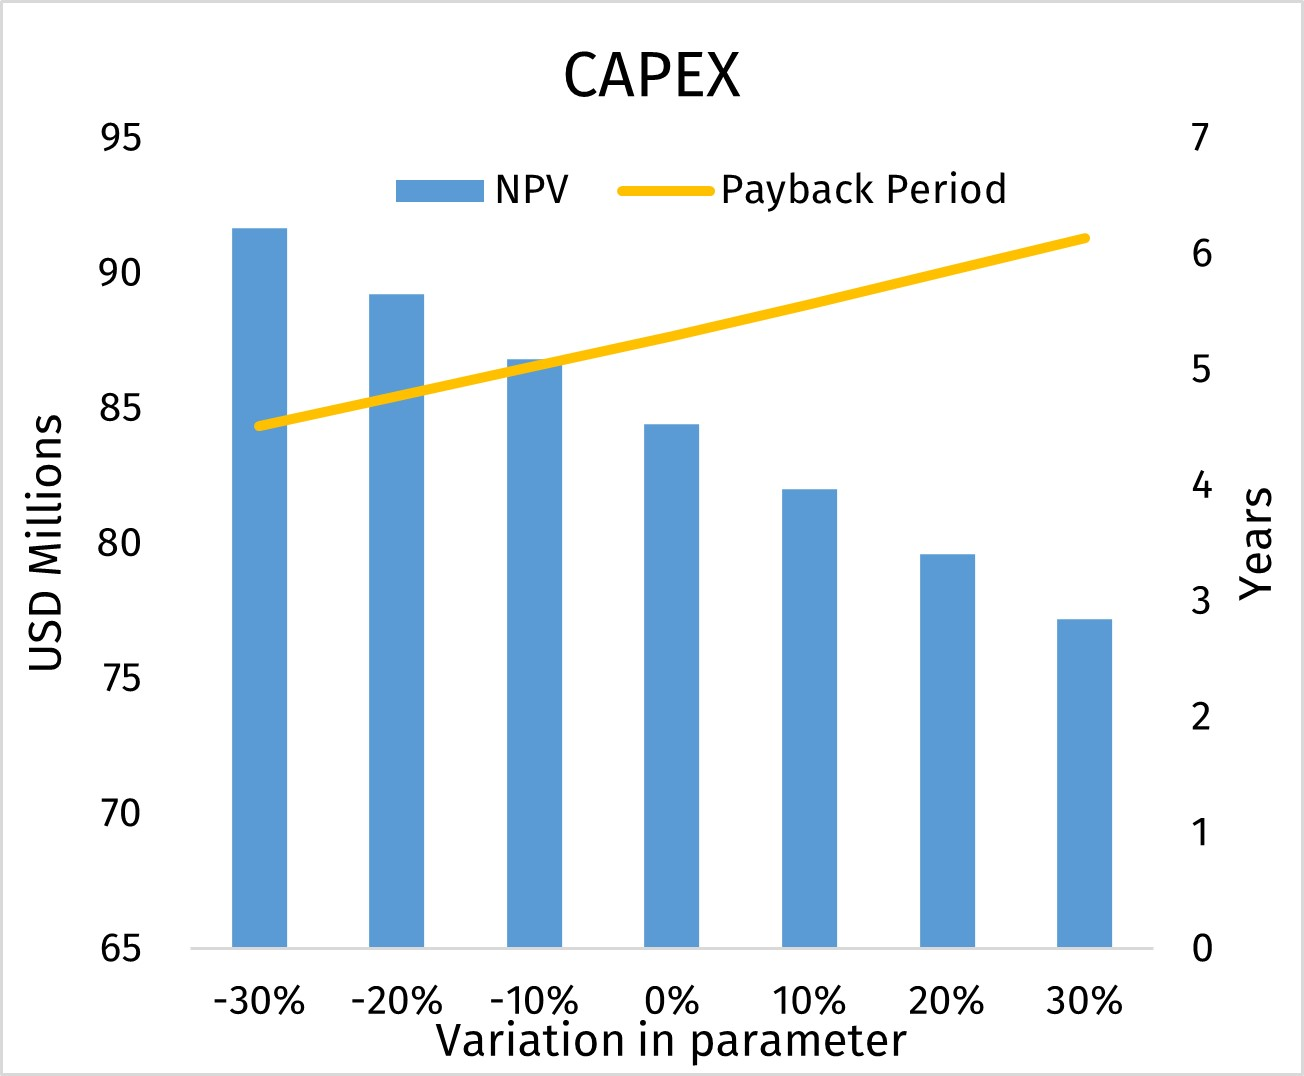
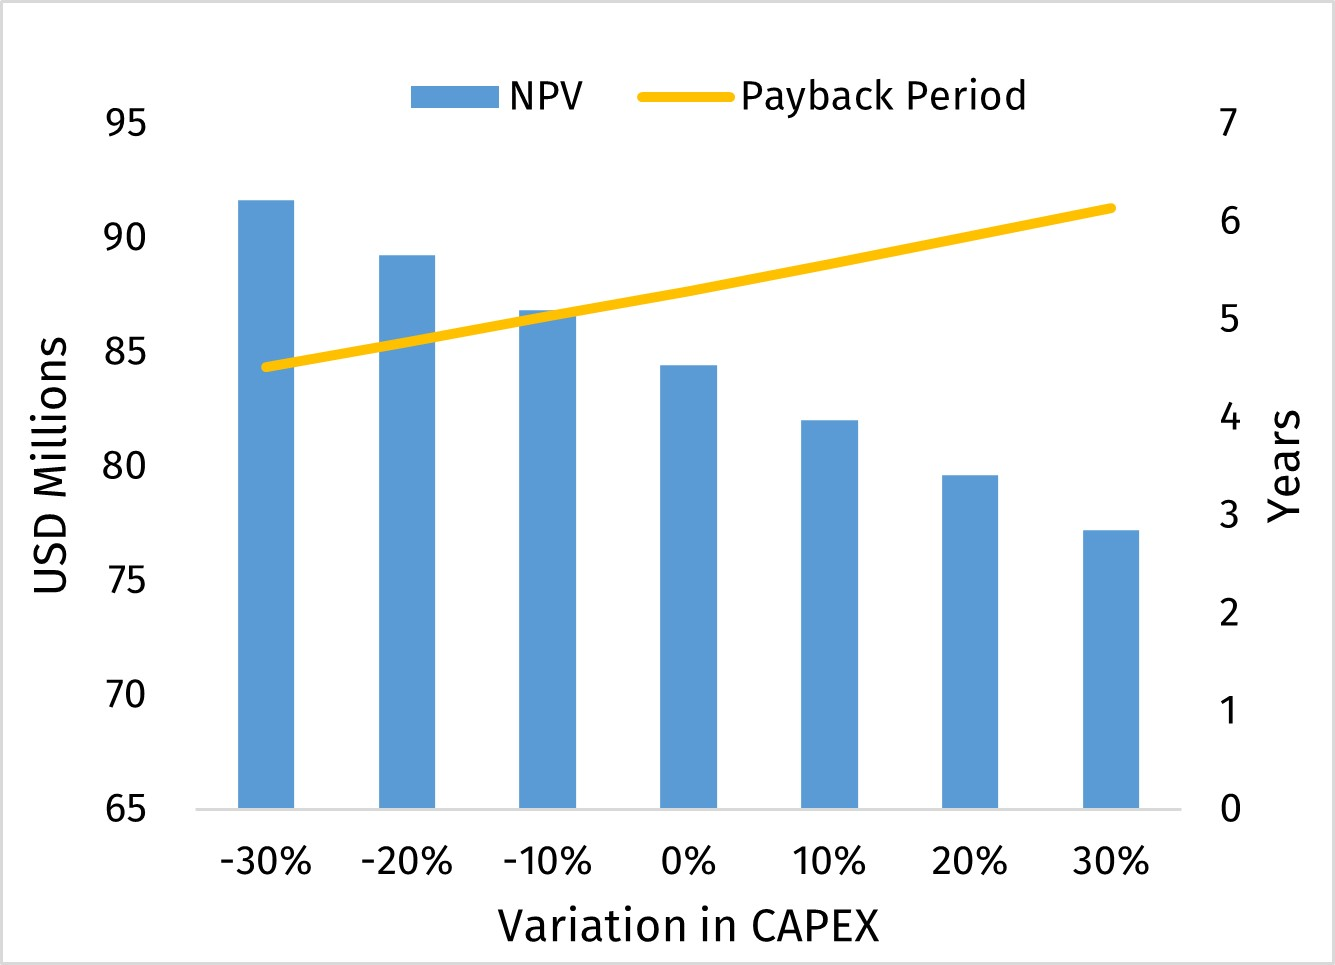
Update on Overleaf.

diff --git a/chapters/6-economics/7-economics.tex b/chapters/6-economics/7-economics.tex
@@ -46,4 +46,4 @@ Naturally, a shorter payback period is more attractive to investors. A major lim
 Nitroma’s cash flow projections till 2043 can be found in Section XX. In 2021 and 2022, Nitroma generates a financial loss as registration, construction and trialling of the nitration plant takes place. Sales and distribution commence in 2023 and Nitroma reports its first positive cash flow in 2024. It should be noted that a cost escalation factor of \SI{2.6}{\percent} (XX) and an income escalation factor of \SI{2.8}{\percent} (XX) have been modelled into the cash flow statement to reflect the rise in Nitroma’s operating costs and product prices in line with the inflation rate and Consumer Price Index of China. 5-yearly capacity expansions of 10 days per year have also been factored into the cash flow statement. However, any additional investment that may be required to increase plant capacity has not been included in the financial statements as it is believed to have a minimal effect on Nitroma’s financial position.
 
 \subsection{Additional KPIs}
-Table XX summarises all KPIs found related to the project. 
+Table XX summarises all KPIs found related to the project. Equity NPV, IRR and payback period are also included to allow equity investors to better understand the value generation they can expect. 

diff --git a/chapters/6-economics/0-main.tex b/chapters/6-economics/0-main.tex
@@ -25,6 +25,8 @@
 \begin{subappendices}
     \input{A-market}
     \input{B-business-plan}
+    \input{C-financial-strategy}
+    \input{D-sensitivities}
 \end{subappendices}
 
 \end{refsection}
